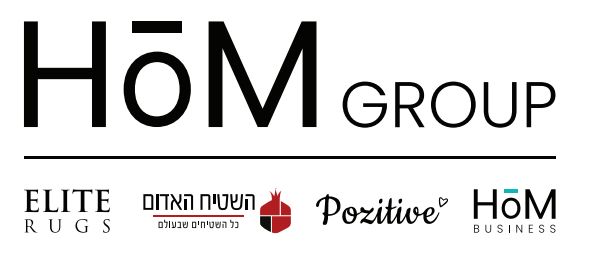
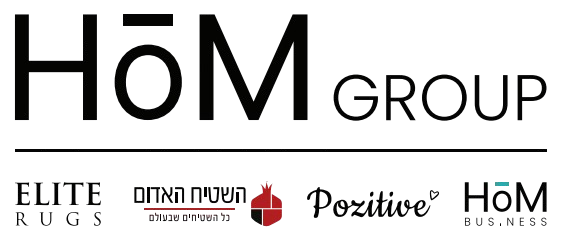
Replace HōM GROUP brand image and sync Image dimensions
Made-with: Cursor

diff --git a/src/components/designer/DesignerShell.tsx b/src/components/designer/DesignerShell.tsx
@@ -168,8 +168,8 @@ export function DesignerShell({
             <Image
               src="/brand/hom-group.png"
               alt="HōM GROUP"
-              width={440}
-              height={220}
+              width={571}
+              height={241}
               className={collapsed ? "h-10 w-auto max-w-[2.75rem] object-contain object-center" : "h-auto w-full max-h-[4.5rem] object-contain object-center"}
               priority
             />
@@ -242,8 +242,8 @@ export function DesignerShell({
               <Image
                 src="/brand/hom-group.png"
                 alt=""
-                width={440}
-                height={176}
+                width={571}
+                height={241}
                 className="h-10 w-auto max-w-[min(220px,68vw)] object-contain object-center sm:h-12 sm:max-w-[240px]"
                 priority
               />
@@ -286,8 +286,8 @@ export function DesignerShell({
               <Image
                 src="/brand/hom-group.png"
                 alt=""
-                width={440}
-                height={176}
+                width={571}
+                height={241}
                 className="h-9 w-auto max-w-[min(200px,48vw)] object-contain object-center"
               />
             </Link>

diff --git a/src/components/admin/AdminShell.tsx b/src/components/admin/AdminShell.tsx
@@ -24,8 +24,8 @@ export function AdminShell({ children }: { children: React.ReactNode }) {
             <Image
               src="/brand/hom-group.png"
               alt="HōM GROUP"
-              width={360}
-              height={180}
+              width={571}
+              height={241}
               className="h-auto w-full max-h-[3.25rem] object-contain object-center"
             />
           </Link>
